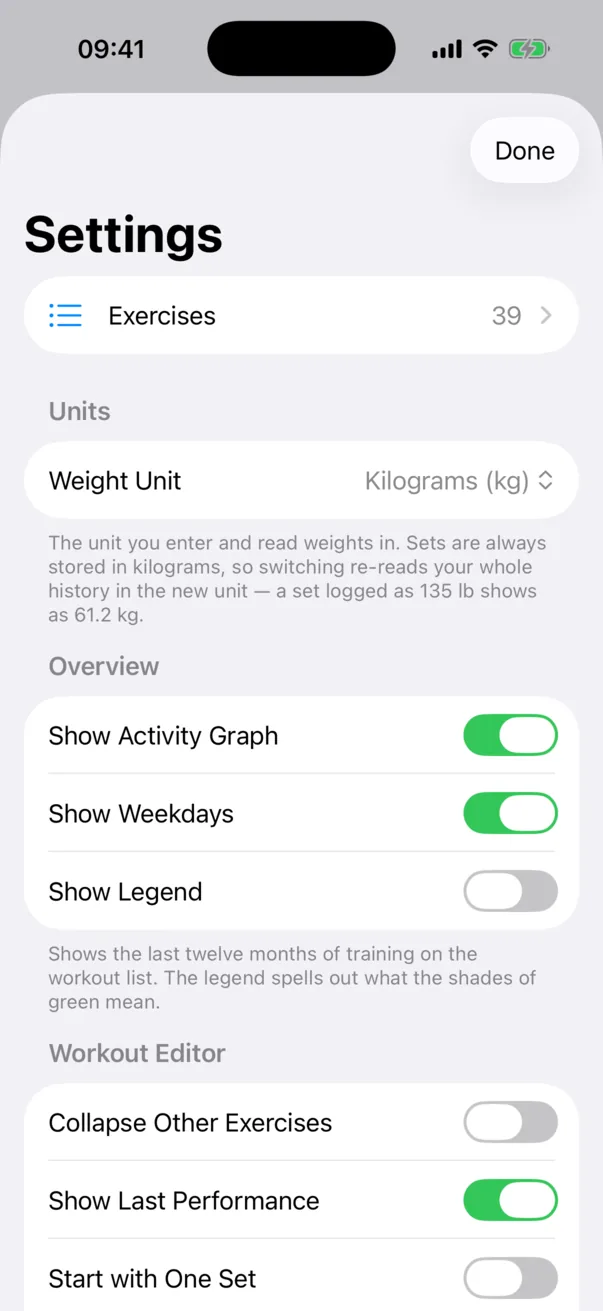
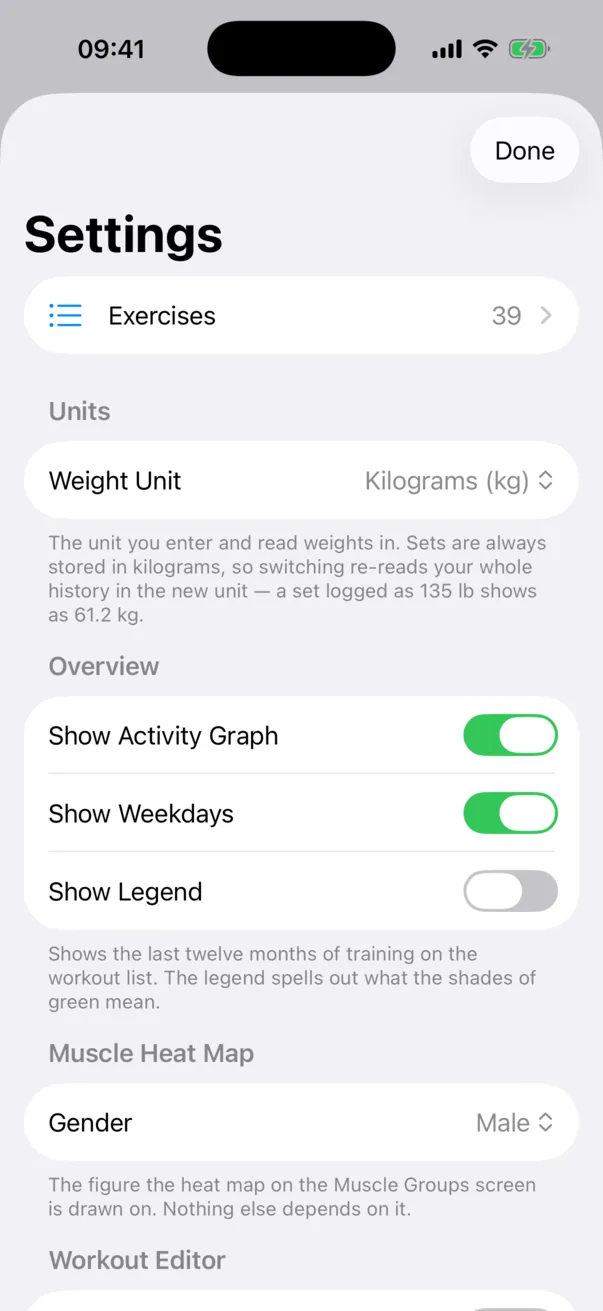
feature overview: build 18 with muscle groups and the heat map

Changed region(s): [[0.0597, 0.8238, 0.9254, 1.0], [0.0896, 0.7933, 0.4179, 0.8238]]

diff --git a/features/index.html b/features/index.html
@@ -271,15 +271,15 @@
   <h1>HippoTrophy</h1>
   <p class="lede">Ein Trainingstagebuch für Hypertrophie- und Krafttraining. Alles bleibt auf dem Gerät: kein Konto, keine Anmeldung, kein Netzzugriff. Hier steht jede Funktion der App mit Bildern, wie sie aussieht und wie man sie benutzt.</p>
   <ul class="meta">
-    <li>Version <strong>0.8.0</strong> · Build <strong>17</strong></li>
-    <li>Stand <strong>5. Oktober 2026</strong> (feature-075)</li>
-    <li><strong>38</strong> Funktionen · <strong>90</strong> Bilder</li>
+    <li>Version <strong>0.8.0</strong> · Build <strong>18</strong></li>
+    <li>Stand <strong>5. Oktober 2026</strong> (feature-078)</li>
+    <li><strong>41</strong> Funktionen · <strong>95</strong> Bilder</li>
   </ul>
 </header>
 
 <div class="toolbar">
   <div class="wrap">
-    <nav class="nav" aria-label="Bereiche"><a href="#g-historie">Startseite und Historie<span>6</span></a><a href="#g-erfassen">Workout erfassen<span>15</span></a><a href="#g-bericht">PDF-Bericht<span>1</span></a><a href="#g-uebungen">Übungsliste<span>10</span></a><a href="#g-backup">Backup<span>3</span></a><a href="#g-einstellungen">Einstellungen und Hilfe<span>3</span></a></nav>
+    <nav class="nav" aria-label="Bereiche"><a href="#g-historie">Startseite und Historie<span>6</span></a><a href="#g-muskeln">Muskelgruppen und Heatmap<span>3</span></a><a href="#g-erfassen">Workout erfassen<span>15</span></a><a href="#g-bericht">PDF-Bericht<span>1</span></a><a href="#g-uebungen">Übungsliste<span>10</span></a><a href="#g-backup">Backup<span>3</span></a><a href="#g-einstellungen">Einstellungen und Hilfe<span>3</span></a></nav>
     <div class="tools">
       <label class="search">
         <svg viewBox="0 0 16 16" aria-hidden="true"><circle cx="7" cy="7" r="5"></circle><path d="M11 11l3.5 3.5"></path></svg>
@@ -300,7 +300,7 @@
   <summary><span class="sum-text"><span class="f-title">Startseite mit Wochenzähler</span><span class="f-teaser">Alle Workouts untereinander, oben die laufende Woche.</span></span><span class="f-count">1 Bild</span><span class="chev" aria-hidden="true"></span></summary>
   <div class="f-body">
     <div class="f-text"><p>Die Startseite listet alle Workouts, das neueste oben, jeweils mit Name, Datum und der Zahl der Übungen und Sätze. Rechts neben dem Titel zählt „This Week“ Workouts und Sätze der laufenden Woche. Ein Satz zählt erst, wenn etwas darin eingetragen ist. Leere Sätze zählen nirgends, weder hier noch im Aktivitätsgraphen oder im Bericht.</p></div>
-    <div class="gallery" role="list"><figure class="shot"><button type="button" class="zoom" data-index="0" aria-label="Vergrößern: Ein Workout von heute: „This Week“ zählt 1 Workout und 12 Sätze."><img src="img/start-mit-heute.webp" width="603" height="1311" loading="lazy" alt="Ein Workout von heute: „This Week“ zählt 1 Workout und 12 Sätze."></button><figcaption>Ein Workout von heute: „This Week“ zählt 1 Workout und 12 Sätze.</figcaption></figure></div>
+    <div class="gallery" role="list"><figure class="shot"><button type="button" class="zoom" data-index="0" aria-label="Vergrößern: Ein Workout von heute: „This Week“ zählt 1 Workout und 2 Sätze."><img src="img/start-mit-heute.webp" width="603" height="1311" loading="lazy" alt="Ein Workout von heute: „This Week“ zählt 1 Workout und 2 Sätze."></button><figcaption>Ein Workout von heute: „This Week“ zählt 1 Workout und 2 Sätze.</figcaption></figure></div>
   </div>
 </details>
 <details class="feature" id="aktivitaet">
@@ -336,6 +336,31 @@
   <div class="f-body">
     <div class="f-text"><p>Ein Tipp auf ein Workout öffnet seine Detailseite: Datum, Zahl der Übungen und Sätze, jede Übung mit ihren Sätzen, Gewicht, Wiederholungen und Anstrengung, dazu die Notizen zu einzelnen Übungen und zum ganzen Workout. Links und rechts getrennt geloggte Sätze stehen in eigenen Blöcken, ein Supersatz als ein gemeinsamer Block.</p><p>Oben rechts führt „Edit“ in den Editor, der Knopf daneben zum PDF-Bericht.</p></div>
     <div class="gallery" role="list"><figure class="shot"><button type="button" class="zoom" data-index="0" aria-label="Vergrößern: Eine Übung mit eigenen Feldern (Rowing Erg), darunter Sätze mit Anstrengung und eine Übungsnotiz."><img src="img/workout-detail.webp" width="603" height="1311" loading="lazy" alt="Eine Übung mit eigenen Feldern (Rowing Erg), darunter Sätze mit Anstrengung und eine Übungsnotiz."></button><figcaption>Eine Übung mit eigenen Feldern (Rowing Erg), darunter Sätze mit Anstrengung und eine Übungsnotiz.</figcaption></figure><figure class="shot"><button type="button" class="zoom" data-index="1" aria-label="Vergrößern: Am Ende die Notiz zum ganzen Workout."><img src="img/workout-detail-unten.webp" width="603" height="1311" loading="lazy" alt="Am Ende die Notiz zum ganzen Workout."></button><figcaption>Am Ende die Notiz zum ganzen Workout.</figcaption></figure><figure class="shot"><button type="button" class="zoom" data-index="2" aria-label="Vergrößern: RIR-Bewertungen als farbige Zahlen."><img src="img/detail-neues-workout.webp" width="603" height="1311" loading="lazy" alt="RIR-Bewertungen als farbige Zahlen."></button><figcaption>RIR-Bewertungen als farbige Zahlen.</figcaption></figure><figure class="shot"><button type="button" class="zoom" data-index="3" aria-label="Vergrößern: Links und rechts getrennt, darunter der Supersatz als Block."><img src="img/detail-neues-workout-unten.webp" width="603" height="1311" loading="lazy" alt="Links und rechts getrennt, darunter der Supersatz als Block."></button><figcaption>Links und rechts getrennt, darunter der Supersatz als Block.</figcaption></figure></div>
+  </div>
+</details></div>
+</section>
+<section class="group" id="g-muskeln" aria-labelledby="h-muskeln">
+  <header class="g-head"><h2 id="h-muskeln">Muskelgruppen und Heatmap</h2><p>Wohin das Training geht: welche Muskelgruppen wie viel abbekommen und was dabei zu kurz kommt.</p></header>
+  <div class="features">
+<details class="feature" id="heatmap">
+  <summary><span class="sum-text"><span class="f-title">Muskel-Heatmap</span><span class="f-teaser">Die Figur von vorne und hinten, eingefärbt nach Sätzen.</span></span><span class="f-count">3 Bilder</span><span class="chev" aria-hidden="true"></span></summary>
+  <div class="f-body">
+    <div class="f-text"><p>Das Figur-Symbol neben dem Zahnrad öffnet „Muscle Groups“. Oben steht die Figur von vorne und von hinten. Jede Muskelgruppe ist nach ihren Sätzen im gewählten Zeitraum eingefärbt: Grün für wenig, über Gelb und Orange bis Rot für die meisttrainierte Gruppe. Grau heißt: in diesem Zeitraum nicht trainiert.</p><p>Die Farben sind relativ zur Muskelgruppe mit den meisten Sätzen, so wie der Aktivitätsgraph jeden Tag am trainingsreichsten misst. Ein Satz zählt dabei voll für jede Muskelgruppe seiner Übung: ein Satz Kreuzheben für Back, Hamstrings und Glutes.</p><p>Der Regler darüber rastet auf All, 1Y, 6M, 3M und 1M ein. Ganz links zählt alles seit dem ersten Workout. Die Wahl bleibt erhalten. Ein Tipp auf einen Muskel öffnet seine Historie.</p><p>In den Einstellungen wählt „Gender“ unter „Muscle Heat Map“ zwischen männlicher und weiblicher Figur. Sonst hängt nichts daran.</p><div class="steps"><h4>So geht’s</h4><ol><li>Auf das Figur-Symbol neben dem Zahnrad tippen.</li><li>Mit dem Regler den Zeitraum wählen.</li><li>Auf einen Muskel tippen, um seine Historie zu sehen.</li></ol></div></div>
+    <div class="gallery" role="list"><figure class="shot"><button type="button" class="zoom" data-index="0" aria-label="Vergrößern: Der letzte Monat: Schultern, Rücken, Trizeps und Gesäß am meisten trainiert."><img src="img/heatmap.webp" width="603" height="1311" loading="lazy" alt="Der letzte Monat: Schultern, Rücken, Trizeps und Gesäß am meisten trainiert."></button><figcaption>Der letzte Monat: Schultern, Rücken, Trizeps und Gesäß am meisten trainiert.</figcaption></figure><figure class="shot"><button type="button" class="zoom" data-index="1" aria-label="Vergrößern: Dieselben Daten auf der weiblichen Figur."><img src="img/heatmap-weiblich.webp" width="603" height="1311" loading="lazy" alt="Dieselben Daten auf der weiblichen Figur."></button><figcaption>Dieselben Daten auf der weiblichen Figur.</figcaption></figure><figure class="shot"><button type="button" class="zoom" data-index="2" aria-label="Vergrößern: Die Wahl der Figur in den Einstellungen."><img src="img/heatmap-gender.webp" width="603" height="1311" loading="lazy" alt="Die Wahl der Figur in den Einstellungen."></button><figcaption>Die Wahl der Figur in den Einstellungen.</figcaption></figure></div>
+  </div>
+</details>
+<details class="feature" id="muskel-liste">
+  <summary><span class="sum-text"><span class="f-title">Sätze je Muskelgruppe</span><span class="f-teaser">Alle 13 Muskelgruppen mit Zahlen.</span></span><span class="f-count">1 Bild</span><span class="chev" aria-hidden="true"></span></summary>
+  <div class="f-body">
+    <div class="f-text"><p>Unter der Heatmap stehen alle Muskelgruppen mit ihren Sätzen im gewählten Zeitraum und dem Tag, an dem sie zuletzt trainiert wurden. Der farbige Punkt ist die Farbe der Muskelgruppe auf der Figur.</p><p>Übungen ohne Muskelgruppe zählen nirgends. Gibt es solche in der Historie, nennt die Seite sie mit einem gelben Warnzeichen und führt zur Übungsliste, gefiltert auf „Undefined“.</p></div>
+    <div class="gallery" role="list"><figure class="shot"><button type="button" class="zoom" data-index="0" aria-label="Vergrößern: Die Liste über den ganzen Zeitraum."><img src="img/muskel-liste.webp" width="603" height="1311" loading="lazy" alt="Die Liste über den ganzen Zeitraum."></button><figcaption>Die Liste über den ganzen Zeitraum.</figcaption></figure></div>
+  </div>
+</details>
+<details class="feature" id="muskel-historie">
+  <summary><span class="sum-text"><span class="f-title">Historie einer Muskelgruppe</span><span class="f-teaser">Sätze pro Woche und jedes Workout, das sie trainiert hat.</span></span><span class="f-count">1 Bild</span><span class="chev" aria-hidden="true"></span></summary>
+  <div class="f-body">
+    <div class="f-text"><p>Ein Tipp auf eine Muskelgruppe, in der Liste oder auf der Figur, öffnet ihre Historie. Oben zeigt ein Balkendiagramm die Sätze der letzten zwölf Wochen. Darunter steht jedes Workout, das sie trainiert hat, das neueste oben. Jede Übung steht dort in einer Zeile, etwa „2×8 @ 70.0 kg“, dazu die anderen Muskelgruppen der Übung.</p><p>Ein Tipp auf eine Übung öffnet deren eigene Historie mit allen Sätzen.</p></div>
+    <div class="gallery" role="list"><figure class="shot"><button type="button" class="zoom" data-index="0" aria-label="Vergrößern: Die Historie von „Chest“."><img src="img/muskel-historie.webp" width="603" height="1311" loading="lazy" alt="Die Historie von „Chest“."></button><figcaption>Die Historie von „Chest“.</figcaption></figure></div>
   </div>
 </details></div>
 </section>
@@ -380,7 +405,7 @@
 <details class="feature" id="rir">
   <summary><span class="sum-text"><span class="f-title">Reps in Reserve (RIR)</span><span class="f-teaser">Statt Easy, Normal, Hard die Wiederholungen, die noch drin waren.</span></span><span class="f-count">4 Bilder</span><span class="chev" aria-hidden="true"></span></summary>
   <div class="f-body">
-    <div class="f-text"><p>„Rate Effort“ in den Einstellungen bestimmt, wie neue Übungen bewerten: „Easy, Normal, Hard“, „Reps in Reserve (RIR)“ oder „Off“. Bereits geloggte Übungen behalten ihre Skala.</p><p>Für eine einzelne Übung im Workout wechselt langes Drücken auf die Kopfzeile und dann „Rate Effort“ die Skala. Sind schon Sätze bewertet, fragt die App vorher, denn die alten Bewertungen passen nicht zur neuen Skala.</p><p>RIR reicht von 0 (Muskelversagen) bis 10 in halben Schritten. Die Schnellwahl bietet 0, 0,5, 1, 2, 3 und 4+, feiner geht es mit dem Stepper.</p></div>
+    <div class="f-text"><p>„Rate Effort“ in den Einstellungen bestimmt, wie neue Übungen bewerten: „Easy, Normal, Hard“, „Reps in Reserve (RIR)“ oder „Off“. Ohne eigene Wahl ist es „Easy, Normal, Hard“. Bereits geloggte Übungen behalten ihre Skala.</p><p>Für eine einzelne Übung im Workout wechselt langes Drücken auf die Kopfzeile und dann „Rate Effort“ die Skala. Sind schon Sätze bewertet, fragt die App vorher, denn die alten Bewertungen passen nicht zur neuen Skala.</p><p>RIR reicht von 0 (Muskelversagen) bis 10 in halben Schritten. Die Schnellwahl bietet 0, 0,5, 1, 2, 3 und 4+, feiner geht es mit dem Stepper.</p></div>
     <div class="gallery" role="list"><figure class="shot"><button type="button" class="zoom" data-index="0" aria-label="Vergrößern: Die Voreinstellung für neue Übungen."><img src="img/rate-effort-einstellung.webp" width="603" height="1311" loading="lazy" alt="Die Voreinstellung für neue Übungen."></button><figcaption>Die Voreinstellung für neue Übungen.</figcaption></figure><figure class="shot"><button type="button" class="zoom" data-index="1" aria-label="Vergrößern: Skala einer Übung wechseln: Rückfrage, weil schon Sätze bewertet sind."><img src="img/skala-wechseln-rueckfrage.webp" width="603" height="1311" loading="lazy" alt="Skala einer Übung wechseln: Rückfrage, weil schon Sätze bewertet sind."></button><figcaption>Skala einer Übung wechseln: Rückfrage, weil schon Sätze bewertet sind.</figcaption></figure><figure class="shot"><button type="button" class="zoom" data-index="2" aria-label="Vergrößern: Die RIR-Auswahl mit Schnellwahl und Stepper."><img src="img/rir-auswahl.webp" width="603" height="1311" loading="lazy" alt="Die RIR-Auswahl mit Schnellwahl und Stepper."></button><figcaption>Die RIR-Auswahl mit Schnellwahl und Stepper.</figcaption></figure><figure class="shot"><button type="button" class="zoom" data-index="3" aria-label="Vergrößern: RIR 2, 1 und 0 als farbige Zahlen."><img src="img/rir-bewertet.webp" width="603" height="1311" loading="lazy" alt="RIR 2, 1 und 0 als farbige Zahlen."></button><figcaption>RIR 2, 1 und 0 als farbige Zahlen.</figcaption></figure></div>
   </div>
 </details>
@@ -571,8 +596,8 @@
 <details class="feature" id="schalter">
   <summary><span class="sum-text"><span class="f-title">Einstellungen</span><span class="f-teaser">Alle Schalter auf einer Seite.</span></span><span class="f-count">2 Bilder</span><span class="chev" aria-hidden="true"></span></summary>
   <div class="f-body">
-    <div class="f-text"><p>Das Zahnrad oben links öffnet die Einstellungen. Neben Übungsliste und Einheit gibt es dort die Schalter für den Aktivitätsgraphen (Graph, Wochentage, Legende) und für den Editor: „Collapse Other Exercises“, „Show Last Performance“, „Start with One Set“ und „Rate Effort“. Unter jedem Abschnitt steht, was er bewirkt.</p></div>
-    <div class="gallery" role="list"><figure class="shot"><button type="button" class="zoom" data-index="0" aria-label="Vergrößern: Oben: Übungen, Einheit, Übersicht."><img src="img/settings-oben.webp" width="603" height="1311" loading="lazy" alt="Oben: Übungen, Einheit, Übersicht."></button><figcaption>Oben: Übungen, Einheit, Übersicht.</figcaption></figure><figure class="shot"><button type="button" class="zoom" data-index="1" aria-label="Vergrößern: Unten: Workout-Editor und FAQ."><img src="img/settings-unten.webp" width="603" height="1311" loading="lazy" alt="Unten: Workout-Editor und FAQ."></button><figcaption>Unten: Workout-Editor und FAQ.</figcaption></figure></div>
+    <div class="f-text"><p>Das Zahnrad oben links öffnet die Einstellungen. Neben Übungsliste und Einheit gibt es dort die Schalter für den Aktivitätsgraphen (Graph, Wochentage, Legende), die Figur der Muskel-Heatmap und die Schalter für den Editor: „Collapse Other Exercises“, „Show Last Performance“, „Start with One Set“ und „Rate Effort“. Unter jedem Abschnitt steht, was er bewirkt.</p></div>
+    <div class="gallery" role="list"><figure class="shot"><button type="button" class="zoom" data-index="0" aria-label="Vergrößern: Oben: Übungen, Einheit, Übersicht, Heatmap."><img src="img/settings-oben.webp" width="603" height="1311" loading="lazy" alt="Oben: Übungen, Einheit, Übersicht, Heatmap."></button><figcaption>Oben: Übungen, Einheit, Übersicht, Heatmap.</figcaption></figure><figure class="shot"><button type="button" class="zoom" data-index="1" aria-label="Vergrößern: Unten: Heatmap, Workout-Editor und FAQ."><img src="img/settings-unten.webp" width="603" height="1311" loading="lazy" alt="Unten: Heatmap, Workout-Editor und FAQ."></button><figcaption>Unten: Heatmap, Workout-Editor und FAQ.</figcaption></figure></div>
   </div>
 </details>
 <details class="feature" id="faq">
